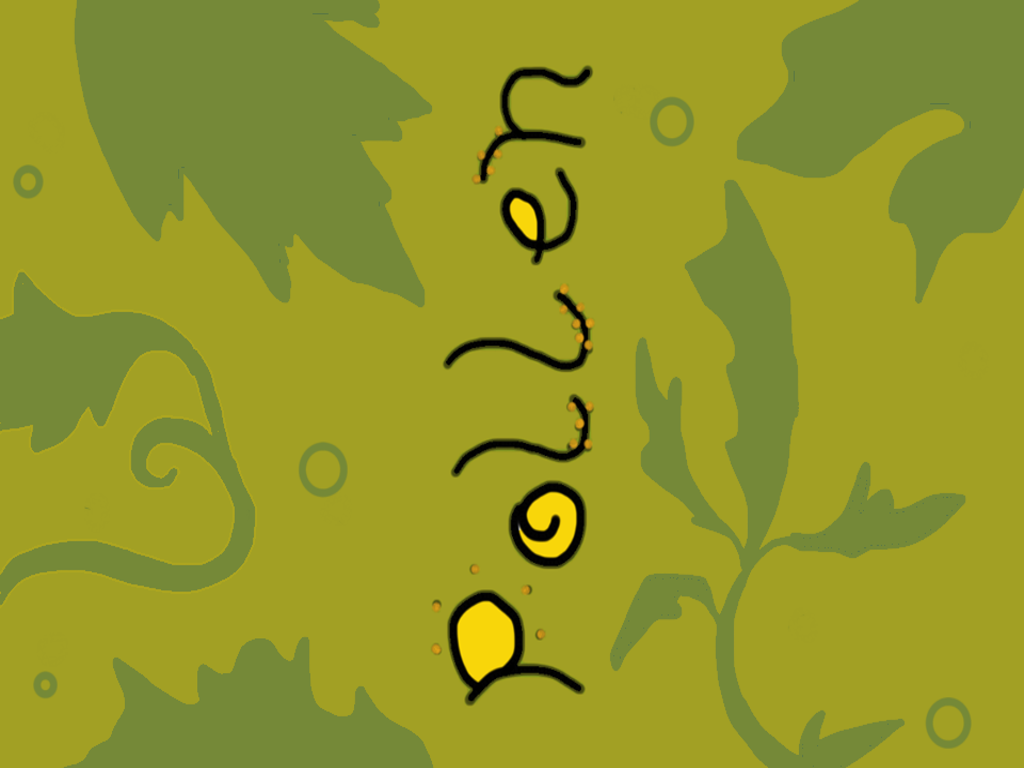
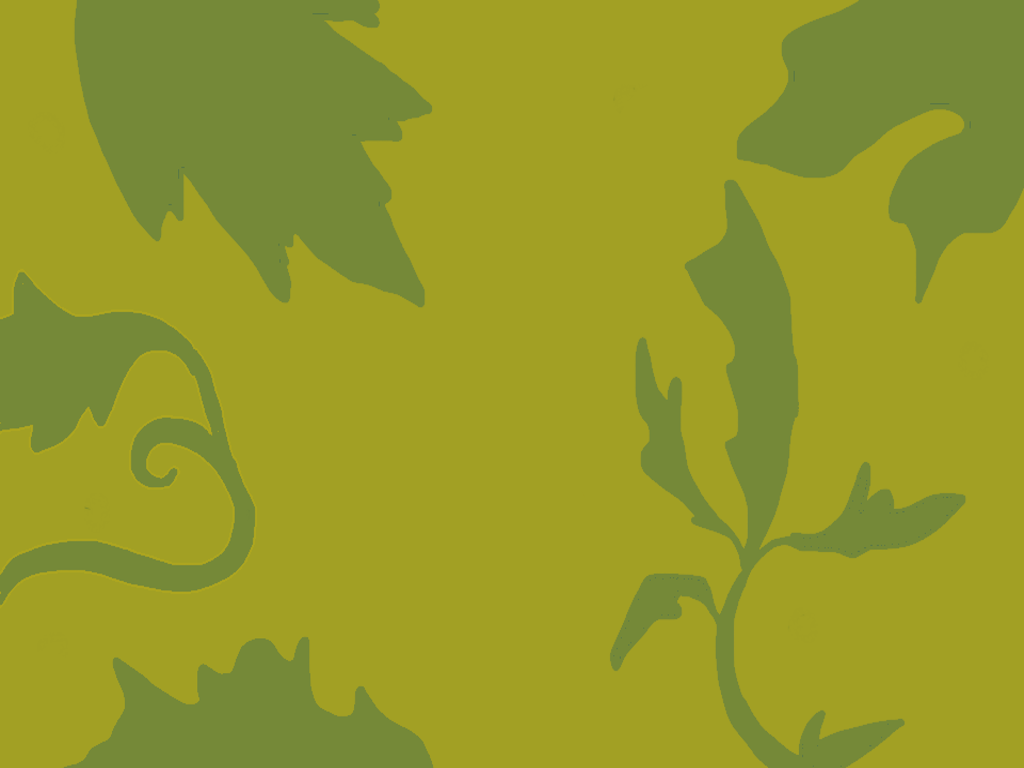
Rebalanced ComboMode and updated main menu a bit

diff --git a/Pollen/MainMenuLayer.m b/Pollen/MainMenuLayer.m
@@ -38,9 +38,59 @@
 		}
         gameTitle.position = ccp(size.width/2, size.height/2);
         gameTitle.scale = 1;
-        [self addChild:gameTitle z:-100];
+        [self addChild:gameTitle z:-103];
         
         
+        NSMutableArray * circles = [NSMutableArray arrayWithObjects:[CCSprite spriteWithFile:@"breathingDot.png"],[CCSprite spriteWithFile:@"breathingDot.png"],[CCSprite spriteWithFile:@"breathingDot.png"],[CCSprite spriteWithFile:@"breathingDot.png"], nil];
+        int index=1;
+        
+        for (CCSprite* circle  in circles)
+        {
+            circle.scale= [GameUtility randDub:.4 :.9];
+            CCDelayTime *delay = [CCDelayTime actionWithDuration:[GameUtility randDub:.0 :1.0]];
+            if (index==1)
+            {
+                circle.position=CGPointMake(-40 * scaleFactor + size.width/2, 65+scaleFactor+ size.height/2);
+                circle.scale+=.5;
+            }
+            else if (index==2)
+            {
+                circle.position=CGPointMake([circle boundingBox].size.width/2, size.height);
+            }
+            else if (index==3)
+            {
+                circle.position=CGPointMake(size.width -[circle boundingBox].size.width*2, -55*scaleFactor + size.height/2);
+            }
+            else
+            {
+                circle.position=ccp(5*scaleFactor, 5*scaleFactor);
+            }
+            [self addChild:circle z:-99];
+            
+            id trigger = [CCCallFuncND actionWithTarget:self selector:@selector(triggerRepeatScaleForSprite:) data:(CCSprite*)circle];
+            id seq = [CCSequence actions:delay,trigger,nil];
+            [circle runAction:seq];
+            index++;
+        }
+
+        
+        
+        NSMutableArray * letters = [NSMutableArray arrayWithObjects:[CCSprite spriteWithFile:@"letterP.png"],[CCSprite spriteWithFile:@"letterO.png"],[CCSprite spriteWithFile:@"letterL1.png"],[CCSprite spriteWithFile:@"letterL2.png"],[CCSprite spriteWithFile:@"letterE.png"],[CCSprite spriteWithFile:@"letterN.png"], nil];
+        
+        int positioner=1;
+        for (CCSprite* letter in letters)
+        {
+            CCDelayTime *delay = [CCDelayTime actionWithDuration:[GameUtility randDub:.0 :1.0]];
+            int adjustO = (positioner==2)?5:0;
+            int adjustN = (positioner==6)?-5:0;
+            letter.position = CGPointMake((-15-adjustO-adjustN)*scaleFactor + positioner*[letter boundingBox].size.width/2 , size.height/2);
+            letter.scale=.75;
+            [self addChild:letter z:-100];
+            id trigger = [CCCallFuncND actionWithTarget:self selector:@selector(triggerRepeatBounceForSprite:) data:(CCSprite*)letter];
+            id seq = [CCSequence actions:delay,trigger,nil];
+            [letter runAction:seq];
+            positioner++;
+        }
         
         
         
@@ -157,8 +207,30 @@
 }
 
 
+- (void) triggerRepeatBounceForSprite:(CCSprite*) sprite
+{
+    CGSize size = [[CCDirector sharedDirector] winSize];
+    float scaleFactor = size.height/size.width;
+    float dur1 = [GameUtility randDub:.6 :.9];
+    float dur2 = dur1-.2;
+    float dur3 = dur2-.1;
+    CCMoveBy * down1 =[CCMoveBy actionWithDuration:dur1 position:CGPointMake(0, -6*scaleFactor)];
+    CCMoveBy * down2 =[CCMoveBy actionWithDuration:dur2 position:CGPointMake(0, -2.75*scaleFactor)];
+    CCMoveBy * down3 =[CCMoveBy actionWithDuration:dur3 position:CGPointMake(0, -1*scaleFactor)];
+    id seq = [CCSequence actions: down1,down2,down3,[down3 reverse],[down2 reverse],[down1 reverse],nil];
+    id repeat = [CCRepeatForever actionWithAction:seq];
+    
+    [sprite runAction:repeat];
+}
 
-
+- (void) triggerRepeatScaleForSprite:(CCSprite*) sprite
+{
+    CCScaleBy * scale1 = [CCScaleBy actionWithDuration:2.3 scale:[GameUtility randDub:1.8 :2.2]];
+    id seq = [CCSequence actions: scale1, [scale1 reverse],nil];
+    id repeat = [CCRepeatForever actionWithAction:seq];
+    
+    [sprite runAction:repeat];
+}
 
 
 

diff --git a/ComboNodeFactory.m b/ComboNodeFactory.m
@@ -59,29 +59,44 @@
 {
     NSMutableArray *spawns = [NSMutableArray array];
     float duration=0;
+    self.nodeCount=waveCount+4;
     if (waveCount ==1){
-        duration=1.5;
+        duration=1.4;
     }
     else if (waveCount==2)
     {
-        duration=1.3;
+        duration=1.2;
     }
     else if (waveCount==3)
     {
-        duration=1.15;
+        duration=1.12;
     }
     else if (waveCount==4)
     {
         duration=1.0;
     }
-    else
+    else if (waveCount<10)
     {
         duration=.88;
     }
-    for (int i=1; i<=9; i++)
+    else if (waveCount<15)
+    {
+        duration=.80;
+    }
+    else {
+        duration=.74;
+    }
+    for (int i=1; i<=self.nodeCount; i++)
     {
 
-        [spawns addObject:[CCDelayTime actionWithDuration:duration/i]];
+        float spawnIntervalDelay;
+        spawnIntervalDelay=(i>6) ? duration/6 : duration/i;
+        if (i==1 && waveCount!=1)
+        {
+            spawnIntervalDelay*=.2;
+        }
+        
+        [spawns addObject:[CCDelayTime actionWithDuration:(i>6) ? duration/6 : duration/i]];
         [spawns addObject:[CCCallBlock actionWithBlock:^(void){
             
             ComboNode *nod =[[[ComboNode alloc]initWithIndex:i] autorelease];

diff --git a/Pollen/SpriteLayer.m b/Pollen/SpriteLayer.m
@@ -288,8 +288,6 @@
 {
     
     
-    //AFTER COMBO CHANGE : touchEnabled=yes, comboTransitionstarted=no
-    
     if (comboPaused && player_.state==Combo)
     {
         [comboLayer_ resumeSchedulerAndActions];
@@ -341,7 +339,7 @@
     if (player_.pollenMeter >= PLAYER_MAX_POLLEN )
     {
         [player_ startComboBoost];
-        player_.pollenMeter= player_.pollenMeter= END_COMBO_POLLEN_AMOUNT;
+        player_.pollenMeter=END_COMBO_POLLEN_AMOUNT;
         //if spidder is too far away, have him fall down to meet player
         if (spiddder_.position.y - player_.position.y >=200)
         {
@@ -503,12 +501,14 @@
 -(void) pauseCombo{
     if ([[self children] containsObject:comboLayer_] && player_.state==Combo)
     {
-        [comboLayer_ pauseSchedulerAndActions];
+        [comboLayer_ pauseSchedulerAndActions]; //interrupts the ccaction that spawns all nodes
         comboPaused=YES;
     }
 }
 -(void) comboEnded{
     [self removeChild:comboLayer_];
+    
+    
     touchEnabled=YES;
     comboTransitionStarted=NO;
     [spiddder_ setComboMode:NO shouldFall:NO];

diff --git a/ComboLayer.m b/ComboLayer.m
@@ -126,7 +126,7 @@
                     
                     
                     
-                    if (node.index==9)
+                    if (node.index==[factory nodeCount])
                     {
                         waveCount++;
                         [factory spawnWave:waveCount];
@@ -141,9 +141,5 @@
 
     return YES;
 }
--(void) dealloc {
-    //[scene endCombo]  resets spidder and player(?) Z
-    //[spawner_ dealloc];
-    [super dealloc];
-}
+
 @end

diff --git a/Pollen/Spiddderoso.m b/Pollen/Spiddderoso.m
@@ -11,7 +11,7 @@
 #import "cocos2d.h"
 
 #define SPIDDDER_INIT_VELOCITY 200.f
-#define SPIDDDER_COMBO_VELOCITY 115.f
+#define SPIDDDER_COMBO_VELOCITY 78.f
 #define SPIDDDER_COMBO_VELOCITY_FALL -95.f
 #define SPIDDDER_VELOCITY_INCREMENT 30.f
 #define SPIDDDER_VELOCITY_DECREMENT 10.f

diff --git a/Pollen/Flower.h b/Pollen/Flower.h
@@ -10,7 +10,7 @@
 
 #define FLOWER_BLOOM_HEALTH 100.f
 #define FLOWER_POLLEN_AMOUNT 3.f
-#warning giving more pollen so testers can test combomode
+#warning giving a little more pollen so testers can test combomode
 
 #define FLOWER_WIDTH 80.f
 #define FLOWER_HEIGHT 100.f

diff --git a/Pollen/PlayerSprite.h b/Pollen/PlayerSprite.h
@@ -39,6 +39,7 @@
         Boosting,
         ComboBoost,
         Combo,
+        ComboEnding
     };
     enum PlayerState state_;
     BOOL dead_;
